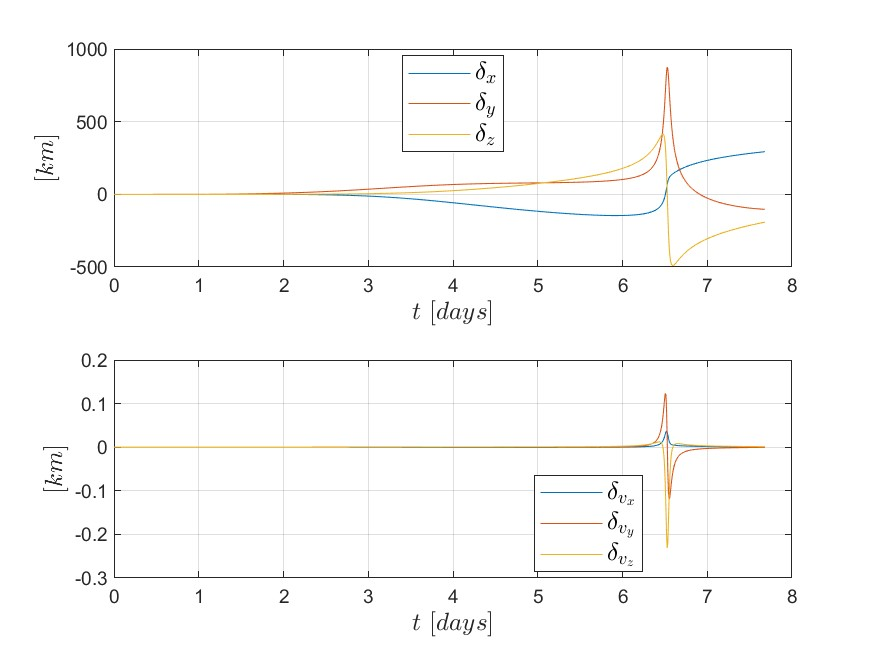
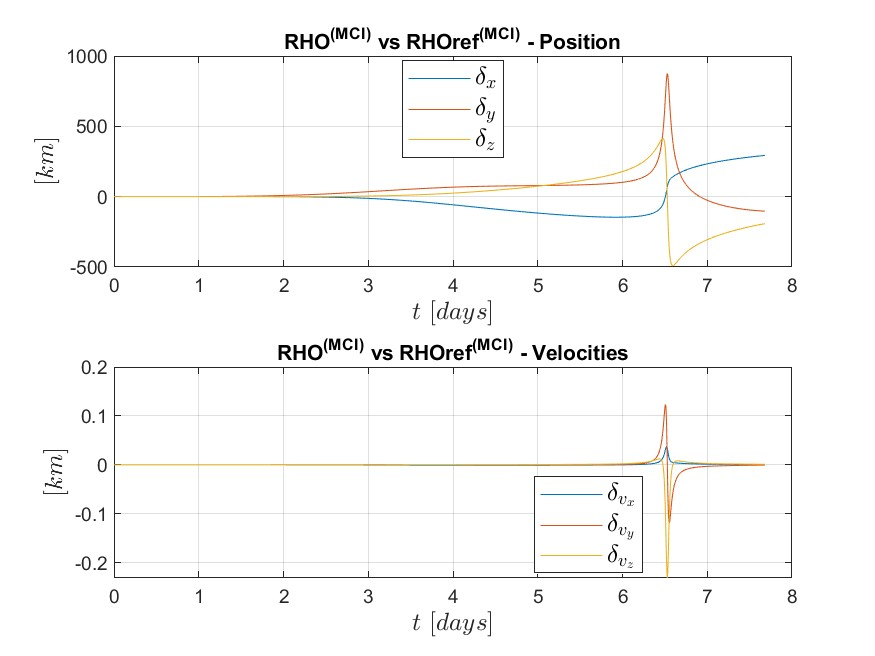
rewritten rotation matrices

diff --git a/Library/get_rotMCI2LVLH.m b/Library/get_rotMCI2LVLH.m
@@ -1,9 +1,9 @@
-function [R, Rdot] = get_R_Rdot(Xt_MCI, t, EarthPPsMCI, SunPPsMCI, MoonPPsECI, muE, muS, deltaE, psiM, deltaM)
+function [R_MCI2LVLH, Rdot_MCI2LVLH] = get_rotMCI2LVLH(X_MCI, t, EarthPPsMCI, SunPPsMCI, MoonPPsECI, muE, muS, deltaE, psiM, deltaM)
 % Description: this function retrieves the Rotation Matrix from MCI to LVLH
 % and its derivative Rdot.
 % 
 % Inputs:
-% Xt_MCI = target carthesian state in MCI
+% X_MCI = carthesian state in MCI
 % t = current epoch
 % EarthPPsMCI = pp struct with the interpolation of the Earth State in MCI
 % SunPPsMCI = pp struct with the interpolation of the Sun State in MCI
@@ -22,35 +22,31 @@ function [R, Rdot] = get_R_Rdot(Xt_MCI, t, EarthPPsMCI, SunPPsMCI, MoonPPsECI, m
 global muM Rm DU TU
 
 % Retrieve Data from Input
-COEt = rvPCI2COE(Xt_MCI', muM)';
-MEEt = COE2MEE(COEt')';
-[~, ~, incl, Omega, omega, nu] = S2C(COEt);
+COE = rvPCI2COE(X_MCI', muM)';
+MEE = COE2MEE(COE')';
+[~, ~, incl, Omega, omega, nu] = S2C(COE);
 theta_t = omega + nu;
 
 % Compute Third, Fourth Body and Moon Harmonics Perturbing Accelerations
-a34B = ThirdFourthBody(MEEt, t, EarthPPsMCI, SunPPsMCI, muE, muS);
-aG_M = MoonHarmPerts(MEEt, MoonPPsECI, t, muM, deltaE, psiM, deltaM);
+a34B = ThirdFourthBody(MEE, t, EarthPPsMCI, SunPPsMCI, muE, muS);
+aG_M = MoonHarmPerts(MEE, MoonPPsECI, t, muM, deltaE, psiM, deltaM);
 ap = a34B + aG_M;
 
 % Compute COE Derivatives
-COEtdots = get_COEdots(COEt, Xt_MCI, ap);
+COEtdots = get_COEdots(COE, X_MCI, ap);
 [~, ~, incl_dot, Omega_dot, omega_dot, nu_dot] = S2C(COEtdots);
 theta_t_dot = omega_dot + nu_dot;
 
 % Compute MCI2LVLH Rotation Matrix and Rotation Matrix Derivative
-R = R3(theta_t) * R1(incl) * R3(Omega);
+R_MCI2LVLH = R3(theta_t) * R1(incl) * R3(Omega);
 
-Rdot = R3dot(theta_t)*R1(incl)*R3(Omega)*theta_t_dot + ...
-       R3(theta_t)*R1dot(incl)*R3(Omega)*incl_dot + ...
-       R3(theta_t)*R1(incl)*R3dot(Omega)*Omega_dot;
+% % Rdot - Old Formulation
+% Rdot_MCI2LVLH = R3dot(theta_t)*R1(incl)*R3(Omega)*theta_t_dot + ...
+%        R3(theta_t)*R1dot(incl)*R3(Omega)*incl_dot + ...
+%        R3(theta_t)*R1(incl)*R3dot(Omega)*Omega_dot;
 
-% fprintf('The norm of R is: %.3f\nThe norm of Rdot is: %.3f\n\n', norm(R), norm(Rdot))
-
-
-R_dot = [sin(Omega)*sin(incl)*sin(theta_t)*incl_dot- cos(Omega)*sin(theta_t)*theta_t_dot - cos(Omega)*cos(incl)*sin(theta_t)*Omega_dot - sin(Omega)*cos(incl)*cos(theta_t)*theta_t_dot - sin(Omega)*cos(theta_t)*Omega_dot,   cos(Omega)*cos(theta_t)*Omega_dot - sin(Omega)*sin(theta_t)*theta_t_dot - sin(Omega)*cos(incl)*sin(theta_t)*Omega_dot + cos(Omega)*cos(incl)*cos(theta_t)*theta_t_dot - cos(Omega)*sin(incl)*sin(theta_t)*incl_dot, cos(incl)*sin(theta_t)*incl_dot + cos(theta_t)*sin(incl)*theta_t_dot
+Rdot_MCI2LVLH = [sin(Omega)*sin(incl)*sin(theta_t)*incl_dot- cos(Omega)*sin(theta_t)*theta_t_dot - cos(Omega)*cos(incl)*sin(theta_t)*Omega_dot - sin(Omega)*cos(incl)*cos(theta_t)*theta_t_dot - sin(Omega)*cos(theta_t)*Omega_dot,   cos(Omega)*cos(theta_t)*Omega_dot - sin(Omega)*sin(theta_t)*theta_t_dot - sin(Omega)*cos(incl)*sin(theta_t)*Omega_dot + cos(Omega)*cos(incl)*cos(theta_t)*theta_t_dot - cos(Omega)*sin(incl)*sin(theta_t)*incl_dot, cos(incl)*sin(theta_t)*incl_dot + cos(theta_t)*sin(incl)*theta_t_dot
          sin(Omega)*sin(theta_t)*Omega_dot - cos(Omega)*cos(theta_t)*theta_t_dot - cos(Omega)*cos(incl)*cos(theta_t)*Omega_dot + sin(Omega)*cos(theta_t)*sin(incl)*incl_dot + sin(Omega)*cos(incl)*sin(theta_t)*theta_t_dot, - cos(Omega)*sin(theta_t)*Omega_dot - sin(Omega)*cos(theta_t)*theta_t_dot - sin(Omega)*cos(incl)*cos(theta_t)*Omega_dot - cos(Omega)*cos(theta_t)*sin(incl)*incl_dot - cos(Omega)*cos(incl)*sin(theta_t)*theta_t_dot, cos(incl)*cos(theta_t)*incl_dot - sin(incl)*sin(theta_t)*theta_t_dot
                                                                                                                                                                                       cos(Omega)*sin(incl)*Omega_dot + sin(Omega)*cos(incl)*incl_dot,                                                                                                                                                                                         sin(Omega)*sin(incl)*Omega_dot - cos(Omega)*cos(incl)*incl_dot, -sin(incl)*incl_dot];
-
-
 
 end

diff --git a/main.m b/main.m
@@ -247,7 +247,7 @@ end
 % Visualize the Evolution of omega_LVLH
 figure('name', 'Evolution of omega_LVLH')
 plot((tspan - tspan(1))*TU/Day, omega_LVLH/TU)
-title('Evolution of omega_LVLH')
+title('Evolution of omega^{(LVLH)}')
 xlabel('$t \ [days]$', 'Interpreter','latex', 'FontSize', 12)
 ylabel('$\omega^{(LVLH)} \ [rad/s]$', 'Interpreter','latex', 'FontSize', 12)
 legend('$\omega_{r}$', '$\omega_{\theta}$', '$\omega_{h}$', 'location', 'best', 'interpreter', 'latex', 'fontsize', 12)
@@ -259,7 +259,7 @@ end
 % Visualize the Evolution of omegadot_LVLH
 figure('name', 'Evolution of omegadot_LVLH')
 plot((tspan - tspan(1))*TU/Day, omegadot_LVLH/TU^2)
-title('Evolution of omegadot_LVLH')
+title('Evolution of omegadot^{(LVLH)}')
 xlabel('$t \ [days]$', 'Interpreter','latex', 'FontSize', 12)
 ylabel('$\dot{\omega}^{(LVLH)} \ [rad/s^2]$', 'Interpreter','latex', 'FontSize', 12)
 legend('$\dot{\omega}_{r}$', '$\dot{\omega}_{\theta}$', '$\dot{\omega}_{h}$', 'location', 'best', 'interpreter', 'latex', 'fontsize', 12)
@@ -279,6 +279,7 @@ plot((tspan - t0) * TU / Day, (RHO_MCI(:, 3) - RHOref_MCI(:, 3))*DU)
 xlabel('$t \ [days]$', 'interpreter', 'latex', 'fontsize', 12)
 ylabel('$[km]$', 'interpreter', 'latex', 'fontsize', 12)
 legend('$\delta_x$', '$\delta_y$', '$\delta_z$', 'interpreter', 'latex', 'fontsize', 12, 'location', 'best')
+title('RHO^{(MCI)} vs RHOref^{(MCI)} - Position')
 
 subplot(2, 1, 2)
 plot((tspan - t0) * TU / Day, (RHO_MCI(:, 4) - RHOref_MCI(:, 4))*DU/TU)
@@ -289,6 +290,7 @@ plot((tspan - t0) * TU / Day, (RHO_MCI(:, 6) - RHOref_MCI(:, 6))*DU/TU)
 xlabel('$t \ [days]$', 'interpreter', 'latex', 'fontsize', 12)
 ylabel('$[km]$', 'interpreter', 'latex', 'fontsize', 12)
 legend('$\delta_{v_x}$', '$\delta_{v_y}$', '$\delta_{v_z}$', 'interpreter', 'latex', 'fontsize', 12, 'location', 'best')
+title('RHO^{(MCI)} vs RHOref^{(MCI)} - Velocities')
 if savechoice
     saveas(gcf, strcat('Output/RHO_MCI vs RHOref_MCI Error.jpg'))
 end
@@ -357,8 +359,8 @@ for i = 1 : M
     apc_LVLHc_i = a34Bc_i + aG_Mc_i;
     
     % Convert Perturbating Accelerations into MCI
-    [R_MCI2LVLHt_i, ~] = get_R_Rdot(Xt_MCI_i, t, EarthPPsMCI, SunPPsMCI, MoonPPsECI, muE, muS, deltaE, psiM, deltaM);
-    [R_MCI2LVLHc_i, ~] = get_R_Rdot(Xc_MCI_i, t, EarthPPsMCI, SunPPsMCI, MoonPPsECI, muE, muS, deltaE, psiM, deltaM);
+    [R_MCI2LVLHt_i, ~] = get_rotMCI2LVLH(Xt_MCI_i, t, EarthPPsMCI, SunPPsMCI, MoonPPsECI, muE, muS, deltaE, psiM, deltaM);
+    [R_MCI2LVLHc_i, ~] = get_rotMCI2LVLH(Xc_MCI_i, t, EarthPPsMCI, SunPPsMCI, MoonPPsECI, muE, muS, deltaE, psiM, deltaM);
     
     apc_MCI_i = R_MCI2LVLHc_i'*apc_LVLHc_i;
     
@@ -404,24 +406,4 @@ end
 
 end
 
-% %% Manual Testing
-% 
-% dRHO_LVLH_PPs = get_statePP(tspan, dRHO_LVLH);
-% ddRHO_LVLHr_PPs = fnder(dRHO_LVLH_PPs(1), 1);
-% ddRHO_LVLHt_PPs = fnder(dRHO_LVLH_PPs(2), 1);
-% ddRHO_LVLHh_PPs = fnder(dRHO_LVLH_PPs(3), 1);
-% ddRHO_LVLH_PPs = [ddRHO_LVLHr_PPs; ddRHO_LVLHt_PPs; ddRHO_LVLHh_PPs];
-% 
-% ddRHO_LVLH = zeros(length(tspan), 3);
-% for i = 1 : length(tspan)
-%     ddRHO_LVLH(i, :) = ppsval(ddRHO_LVLH_PPs, tspan(i))';
-% end
-% 
-% figure('name', 'Evolution of RHO State Derivatives from Interpolation')
-% plot((tspan - t0) * TU / Day, dRHO_LVLH(:, 1:3)*DU/TU)
-% hold on
-% plot((tspan - t0) * TU / Day, ddRHO_LVLH(:, 1:3)*DU/TU^2)
-% title('Evolution of RHO State Derivatives from Interpolation')
-% xlabel('$t \ [days]$', 'interpreter', 'latex', 'fontsize', 12)
-% ylabel('$[km/s]\, , \,[km/s^2]$', 'interpreter', 'latex', 'fontsize', 12)
-% legend('$\dot{r}$', '$\dot{\theta}$', '$\dot{h}$', '$\ddot{r}$', '$\ddot{\theta}$', '$\ddot{h}$', 'interpreter', 'latex', 'fontsize', 12, 'location', 'best')
+

diff --git a/Library/get_rotLVLH2MCI.m b/Library/get_rotLVLH2MCI.m
@@ -1,0 +1,48 @@
+function [R_LVLH2MCI, Rdot_LVLH2MCI] = get_rotLVLH2MCI(X_MCI, t, EarthPPsMCI, SunPPsMCI, MoonPPsECI, muE, muS, deltaE, psiM, deltaM)
+% Description: this function retrieves the Rotation Matrix from MCI to LVLH
+% and its derivative Rdot.
+% 
+% Inputs:
+% X_MCI = carthesian state in MCI
+% t = current epoch
+% EarthPPsMCI = pp struct with the interpolation of the Earth State in MCI
+% SunPPsMCI = pp struct with the interpolation of the Sun State in MCI
+% MoonPPsECI = pp struct with the interpolation of the Moon State in ECI
+% muE = Earth's gravitational parameter in canonical units
+% muS = Sun's gravitational parameter in canonical units
+% deltaE = Earth's Ecliptic Obliquity
+% psiM = Moon's Precession Angle
+% deltaM = Moon's Equator Obliquity
+% 
+% Outputs:
+% R = LVLH2MCI rotation matrix
+% R_dot = LVLH2MCI rotation matrix derivative
+
+% Recall Global Variables
+global muM Rm DU TU
+
+% Retrieve Data from Input
+COE = rvPCI2COE(X_MCI', muM)';
+MEE = COE2MEE(COE')';
+[~, ~, incl, Omega, omega, nu] = S2C(COE);
+theta_t = omega + nu;
+
+% Compute Third, Fourth Body and Moon Harmonics Perturbing Accelerations
+a34B = ThirdFourthBody(MEE, t, EarthPPsMCI, SunPPsMCI, muE, muS);
+aG_M = MoonHarmPerts(MEE, MoonPPsECI, t, muM, deltaE, psiM, deltaM);
+ap = a34B + aG_M;
+
+% Compute COE Derivatives
+COEtdots = get_COEdots(COE, X_MCI, ap);
+[~, ~, incl_dot, Omega_dot, omega_dot, nu_dot] = S2C(COEtdots);
+theta_t_dot = omega_dot + nu_dot;
+
+% Compute MCI2LVLH Rotation Matrix and Rotation Matrix Derivative
+R_LVLH2MCI = R3(-Omega) * R1(-incl) * R3(-theta_t);
+
+Rdot_LVLH2MCI = [sin(Omega)*sin(incl)*sin(theta_t)*incl_dot - cos(Omega)*sin(theta_t)*theta_t_dot - cos(Omega)*cos(incl)*sin(theta_t)*Omega_dot - sin(Omega)*cos(incl)*cos(theta_t)*theta_t_dot - sin(Omega)*cos(theta_t)*Omega_dot,   sin(Omega)*sin(theta_t)*Omega_dot - cos(Omega)*cos(theta_t)*theta_t_dot - cos(Omega)*cos(incl)*cos(theta_t)*Omega_dot + sin(Omega)*cos(theta_t)*sin(incl)*incl_dot + sin(Omega)*cos(incl)*sin(theta_t)*theta_t_dot, cos(Omega)*sin(incl)*Omega_dot + sin(Omega)*cos(incl)*incl_dot
+                 cos(Omega)*cos(theta_t)*Omega_dot - sin(Omega)*sin(theta_t)*theta_t_dot - sin(Omega)*cos(incl)*sin(theta_t)*Omega_dot + cos(Omega)*cos(incl)*cos(theta_t)*theta_t_dot - cos(Omega)*sin(incl)*sin(theta_t)*incl_dot, - cos(Omega)*sin(theta_t)*Omega_dot - sin(Omega)*cos(theta_t)*theta_t_dot - sin(Omega)*cos(incl)*cos(theta_t)*Omega_dot - cos(Omega)*cos(theta_t)*sin(incl)*incl_dot - cos(Omega)*cos(incl)*sin(theta_t)*theta_t_dot, sin(Omega)*sin(incl)*Omega_dot - cos(Omega)*cos(incl)*incl_dot
+                 cos(incl)*sin(theta_t)*incl_dot + cos(theta_t)*sin(incl)*theta_t_dot,                                                                                                                                                                                                    cos(incl)*cos(theta_t)*incl_dot - sin(incl)*sin(theta_t)*theta_t_dot,                                                             -sin(incl)*incl_dot];
+ 
+
+end

diff --git a/DynamicalModelRM.m b/DynamicalModelRM.m
@@ -81,8 +81,8 @@ aG_Mc = MoonHarmPerts(MEEc, MoonPPsECI, t, muM, deltaE, psiM, deltaM);
 apc_LVLHc = a34Bc + aG_Mc;
 
 % Convert Perturbating Accelerations into MCI
-[R_MCI2LVLHt, ~] = get_R_Rdot(Xt_MCI, t, EarthPPsMCI, SunPPsMCI, MoonPPsECI, muE, muS, deltaE, psiM, deltaM);
-[R_MCI2LVLHc, ~] = get_R_Rdot(Xc_MCI, t, EarthPPsMCI, SunPPsMCI, MoonPPsECI, muE, muS, deltaE, psiM, deltaM);
+[R_MCI2LVLHt, ~] = get_rotMCI2LVLH(Xt_MCI, t, EarthPPsMCI, SunPPsMCI, MoonPPsECI, muE, muS, deltaE, psiM, deltaM);
+[R_MCI2LVLHc, ~] = get_rotMCI2LVLH(Xc_MCI, t, EarthPPsMCI, SunPPsMCI, MoonPPsECI, muE, muS, deltaE, psiM, deltaM);
 
 apc_MCI = R_MCI2LVLHc'*apc_LVLHc;
 

diff --git a/Library/rhoLVLH2MCI.m b/Library/rhoLVLH2MCI.m
@@ -10,11 +10,11 @@ rho_LVLH = RHO_LVLH(1:3);
 rhodot_LVLH = RHO_LVLH(4:6);
 
 % Compute MCI2LVLH Rotation Matrix and its Derivative
-[R, Rdot] = get_R_Rdot(Xt_MCI, t, EarthPPsMCI, SunPPsMCI, MoonPPsECI, muE, muS, deltaE, psiM, deltaM);
+[R_LVLH2MCI, Rdot_LVLH2MCI] = get_rotLVLH2MCI(Xt_MCI, t, EarthPPsMCI, SunPPsMCI, MoonPPsECI, muE, muS, deltaE, psiM, deltaM);
 
 % Rotate both Position and Velocity
-rho_MCI = R'*rho_LVLH;
-rhodot_MCI = R'*(rhodot_LVLH - Rdot*R'*rho_LVLH);
+rho_MCI = R_LVLH2MCI*rho_LVLH;
+rhodot_MCI = R_LVLH2MCI*rhodot_LVLH + Rdot_LVLH2MCI*rho_LVLH;
 
 % Assemble the MCI State
 RHO_MCI = [rho_MCI; rhodot_MCI];

diff --git a/Library/rhoMCI2LVLH.m b/Library/rhoMCI2LVLH.m
@@ -10,11 +10,11 @@ rho_MCI = RHO_MCI(1:3);
 rhodot_MCI = RHO_MCI(4:6);
 
 % Compute MCI2LVLH Rotation Matrix and its Derivative
-[R, Rdot] = get_R_Rdot(Xt_MCI, t, EarthPPsMCI, SunPPsMCI, MoonPPsECI, muE, muS, deltaE, psiM, deltaM);
+[R_MCI2LVLH, Rdot_MCI2LVLH] = get_rotMCI2LVLH(Xt_MCI, t, EarthPPsMCI, SunPPsMCI, MoonPPsECI, muE, muS, deltaE, psiM, deltaM);
 
 % Rotate both Position and Velocity
-rho_LVLH = R*rho_MCI;
-rhodot_LVLH = R*rhodot_MCI + Rdot*rho_MCI;
+rho_LVLH = R_MCI2LVLH*rho_MCI;
+rhodot_LVLH = R_MCI2LVLH*rhodot_MCI + Rdot_MCI2LVLH*rho_MCI;
 
 % Assemble the LVLH State
 RHO_LVLH = [rho_LVLH; rhodot_LVLH];
